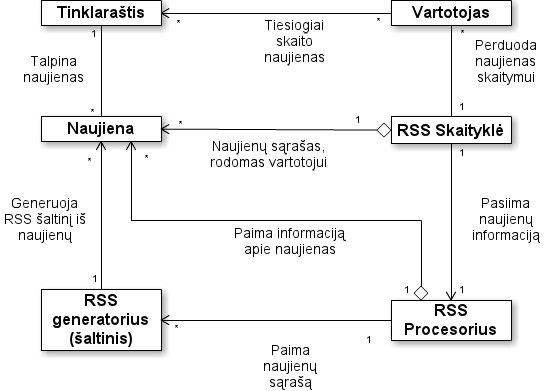
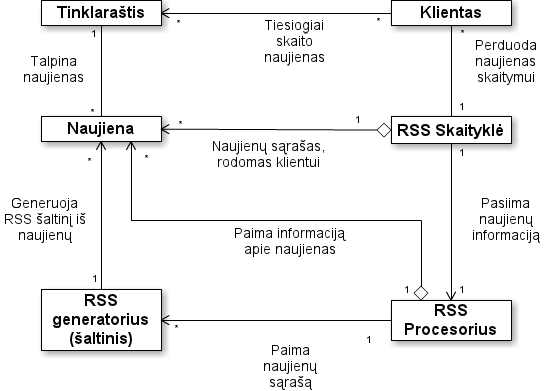
Vartotojas->klientas, sistemos teikiamos naudos diagrama, kiti smulkūs pataisymai

Changed region(s): [[0.75, 0.0, 0.9062, 0.0614], [0.375, 0.399, 0.5938, 0.4297]]

diff --git a/projektas/2.2_vidine_analize.md b/projektas/2.2_vidine_analize.md
@@ -1,6 +1,6 @@
 # Vidinė verslo proceso analizė
 
-Nagrinėjame internetinių įrašų ir naujienų skaitymo būdus. Pagrindiniai iš jų yra tiesioginis skaitymas įrašo šaltinyje ir skaitymas naudojant RSS agregatorių. Atlikę išorinę dalykinės srities analizę, nustatėme, kad naudojimasis ir vienu, ir kitu būdu yra problematiški. Didžiausios problemos yra susijusios su per dideliu pateikiamos informacijos kiekiu bei aktualumu vartotojui.
+Nagrinėjame internetinių įrašų ir naujienų skaitymo būdus. Pagrindiniai iš jų yra tiesioginis skaitymas įrašo šaltinyje ir skaitymas naudojant RSS agregatorių. Atlikę išorinę dalykinės srities analizę, nustatėme, kad naudojimasis ir vienu, ir kitu būdu yra problematiški. Didžiausios problemos yra susijusios su per dideliu pateikiamos informacijos kiekiu bei aktualumu klientui.
 
 ## Dalykinės srities statinė struktūra
 
@@ -12,15 +12,15 @@ Nagrinėjame internetinių įrašų ir naujienų skaitymo būdus. Pagrindiniai i
 
 \FloatBarrier
 
-**Vartotojas:** Klientas, sąveikaujantis su sistema ir tinklaraščiais, juose skaitantis naujienas.
+**Klientas:** Klientas, sąveikaujantis su sistema ir tinklaraščiais, juose skaitantis naujienas.
 
 **Naujiena:** RSS šaltinyje ar tinklaraštyje publikuojamas tekstinis įrašas.
 
 **RSS Generatorius (šaltinis):** Modulis, generuojantis RSS šaltinį iš naujienų šaltinyje esančių naujienų.
 
-**RSS Skaityklė:** RSS agregatoriaus dalis, su kuria sąveikauja vartotojas. Vartotojui parodo RSS Procesoriaus agreguotas naujienas bei leidžia valdyti RSS Procesoriaus naudojamus RSS šaltinius.
+**RSS Skaityklė:** RSS agregatoriaus dalis, su kuria sąveikauja klientas. Klientui parodo RSS Procesoriaus agreguotas naujienas bei leidžia valdyti RSS Procesoriaus naudojamus RSS šaltinius.
 
-**RSS Procesorius:** RSS Skaityklės dalis, su kuria vartotojas tiesiogiai nesąveikauja. Nuskaito naujienų sąrašus iš kiekvieno RSS šaltinio bei agreguoja naujienų informaciją.
+**RSS Procesorius:** RSS Skaityklės dalis, su kuria klientas tiesiogiai nesąveikauja. Nuskaito naujienų sąrašus iš kiekvieno RSS šaltinio bei agreguoja naujienų informaciją.
 
 **Tinklaraštis:** Internetinis tinklalapis talpinantis konkretaus autoriaus ar autorių grupės straipsnius tam tikromis temomis.
 
@@ -58,7 +58,7 @@ Nagrinėjame internetinių įrašų ir naujienų skaitymo būdus. Pagrindiniai i
     \begin{tabular}{|p{3cm}|p{4cm}|p{4cm}|p{4cm}|}
         \hline
         \textbf{Pirminis agentas} & \textbf{Prieš sąlyga} & \textbf{Po sąlyga} & \textbf{Pasikartojimo dažnis} \\ \hline
-        Vartotojas. & Vartotojas žino tinklaraščio adresą. & Vartotojas perskaitė įrašus tinklaraštyje. & Vidutiniškai 3 kartus per dieną. \\
+        Klientas. & Klientas žino tinklaraščio adresą. & Klientas perskaitė įrašus tinklaraštyje. & Vidutiniškai 3 kartus per dieną. \\
         \hline
     \end{tabular}
 \end{table}
@@ -79,7 +79,7 @@ Nagrinėjame internetinių įrašų ir naujienų skaitymo būdus. Pagrindiniai i
     \begin{tabular}{|p{3cm}|p{4cm}|p{4cm}|p{4cm}|}
         \hline
         \textbf{Pirminis agentas} & \textbf{Prieš sąlyga} & \textbf{Po sąlyga} & \textbf{Pasikartojimo dažnis} \\ \hline
-        Vartotojas. & Vartotojas atsidaręs norimos komentuoti naujienos puslapį. & Vartotojo komentaras išsaugotas tinklaraštyje. & Vidutiniškai 1 kartą per 2 metus. \\
+        Klientas. & Klientas atsidaręs norimos komentuoti naujienos puslapį. & Kliento komentaras išsaugotas tinklaraštyje. & Vidutiniškai 1 kartą per 2 metus. \\
         \hline
     \end{tabular}
 \end{table}
@@ -100,7 +100,7 @@ Nagrinėjame internetinių įrašų ir naujienų skaitymo būdus. Pagrindiniai i
     \begin{tabular}{|p{3cm}|p{4cm}|p{4cm}|p{4cm}|}
         \hline
         \textbf{Pirminis agentas} & \textbf{Prieš sąlyga} & \textbf{Po sąlyga} & \textbf{Pasikartojimo dažnis} \\ \hline
-        Vartotojas. & Vartotojas atsidaręs tinklaraštį interneto naršyklėje. & Vartotojas surado norimą įrašą. & Vidutiniškai 2 kartus per mėnesį. \\
+        Klientas. & Klientas atsidaręs tinklaraštį interneto naršyklėje. & Klientas surado norimą įrašą. & Vidutiniškai 2 kartus per mėnesį. \\
         \hline
     \end{tabular}
 \end{table}
@@ -121,7 +121,7 @@ Nagrinėjame internetinių įrašų ir naujienų skaitymo būdus. Pagrindiniai i
     \begin{tabular}{|p{3cm}|p{4cm}|p{4cm}|p{4cm}|}
         \hline
         \textbf{Pirminis agentas} & \textbf{Prieš sąlyga} & \textbf{Po sąlyga} & \textbf{Pasikartojimo dažnis} \\ \hline
-        Vartotojas. & Vartotojas žino RSS šaltinio adresą. & RSS šaltinis pridėtas į vartotojo skaitomų RSS šaltinių sąrašą. & Vidutiniškai 1 kartą per mėnesį. \\
+        Klientas. & Klientas žino RSS šaltinio adresą. & RSS šaltinis pridėtas į kiento skaitomų RSS šaltinių sąrašą. & Vidutiniškai 1 kartą per mėnesį. \\
         \hline
     \end{tabular}
 \end{table}
@@ -142,7 +142,7 @@ Nagrinėjame internetinių įrašų ir naujienų skaitymo būdus. Pagrindiniai i
     \begin{tabular}{|p{3cm}|p{4cm}|p{4cm}|p{4cm}|}
         \hline
         \textbf{Pirminis agentas} & \textbf{Prieš sąlyga} & \textbf{Po sąlyga} & \textbf{Pasikartojimo dažnis} \\ \hline
-        Vartotojas. & Norimas pašalinti RSS šaltinis yra vartotojo skaitomų šaltinių sąraše. & Šaltinis yra pašalintas iš vartotojo skaitomų RSS šaltinių sąrašo. & Vidutiniškai 1 kartą per mėnesį. \\
+        Klientas. & Norimas pašalinti RSS šaltinis yra kliento skaitomų šaltinių sąraše. & Šaltinis yra pašalintas iš kliento skaitomų RSS šaltinių sąrašo. & Vidutiniškai 1 kartą per mėnesį. \\
         \hline
     \end{tabular}
 \end{table}
@@ -163,7 +163,7 @@ Nagrinėjame internetinių įrašų ir naujienų skaitymo būdus. Pagrindiniai i
     \begin{tabular}{|p{3cm}|p{4cm}|p{4cm}|p{4cm}|}
         \hline
         \textbf{Pirminis agentas} & \textbf{Prieš sąlyga} & \textbf{Po sąlyga} & \textbf{Pasikartojimo dažnis} \\ \hline
-        Vartotojas. & Vartotojo skaitomų RSS šaltinių sąraše yra bent vienas RSS šaltinis ir kategorijai norimas priskirti RSS šaltinis yra vartotojo skaitomų RSS šaltinių sąraše. & RSS šaltinis priskirtas kategorijai. & Vidutiniškai 1 kartą vienam RSS šaltiniui. \\
+        Klientas. & kliento skaitomų RSS šaltinių sąraše yra bent vienas RSS šaltinis ir kategorijai norimas priskirti RSS šaltinis yra kliento skaitomų RSS šaltinių sąraše. & RSS šaltinis priskirtas kategorijai. & Vidutiniškai 1 kartą vienam RSS šaltiniui. \\
         \hline
     \end{tabular}
 \end{table}
@@ -184,7 +184,7 @@ Nagrinėjame internetinių įrašų ir naujienų skaitymo būdus. Pagrindiniai i
     \begin{tabular}{|p{3cm}|p{4cm}|p{4cm}|p{4cm}|}
         \hline
         \textbf{Pirminis agentas} & \textbf{Prieš sąlyga} & \textbf{Po sąlyga} & \textbf{Pasikartojimo dažnis} \\ \hline
-        Vartotojas. & Vartotojo skaitomų RSS šaltinių sąraše yra bent vienas šaltinis, vartotojo naujienų sraute yra bent viena naujiena. & Vartotojas, perskaitęs naujienas, perskaitytos naujienos pažymėtos perskaitytomis. & Vidutiniškai 2 kartus per dieną. \\
+        Klientas. & kliento skaitomų RSS šaltinių sąraše yra bent vienas šaltinis, kliento naujienų sraute yra bent viena naujiena. & Klientas, perskaitęs naujienas, perskaitytos naujienos pažymėtos perskaitytomis. & Vidutiniškai 2 kartus per dieną. \\
         \hline
     \end{tabular}
 \end{table}
@@ -205,7 +205,7 @@ Nagrinėjame internetinių įrašų ir naujienų skaitymo būdus. Pagrindiniai i
     \begin{tabular}{|p{3cm}|p{4cm}|p{4cm}|p{4cm}|}
         \hline
         \textbf{Pirminis agentas} & \textbf{Prieš sąlyga} & \textbf{Po sąlyga} & \textbf{Pasikartojimo dažnis} \\ \hline
-        Vartotojas. & Vartotojo naujienų sraute yra bent viena naujiena. & Vartotojas, radęs ieškomą naujieną. & Vidutiniškai 1 kartą per mėnesį. \\
+        Klientas. & kliento naujienų sraute yra bent viena naujiena. & Klientas, radęs ieškomą naujieną. & Vidutiniškai 1 kartą per mėnesį. \\
         \hline
     \end{tabular}
 \end{table}
@@ -226,7 +226,7 @@ Nagrinėjame internetinių įrašų ir naujienų skaitymo būdus. Pagrindiniai i
     \begin{tabular}{|p{3cm}|p{4cm}|p{4cm}|p{4cm}|}
         \hline
         \textbf{Pirminis agentas} & \textbf{Prieš sąlyga} & \textbf{Po sąlyga} & \textbf{Pasikartojimo dažnis} \\ \hline
-        Vartotojas. & Vartotojo naujienų sraute yra bent viena naujiena. & Pasirinkta naujiena pažymėta pamėgtąja. & Vidutiniškai 3 kartus per savaitę. \\
+        Klientas. & kliento naujienų sraute yra bent viena naujiena. & Pasirinkta naujiena pažymėta pamėgtąja. & Vidutiniškai 3 kartus per savaitę. \\
         \hline
     \end{tabular}
 \end{table}
@@ -251,7 +251,7 @@ Nagrinėjame internetinių įrašų ir naujienų skaitymo būdus. Pagrindiniai i
 
 \FloatBarrier
 
-Vartotojui, prieš naudojantis RSS šaltiniu, reikia jį pridėti į RSS agregatoriaus prenumeruojamų šaltinių sąrašą. Pridėjus šaltinis tampa aktyvus vartotojo aplinkoje. Kas nustatytą laiko tarpą šaltinis yra patikrinamas, ar jame nėra naujų įrašų ir jeigu jų yra - juos atvaizduoja vartotojui kaip naujus, neperskaitytus.
+Klientui, prieš naudojantis RSS šaltiniu, reikia jį pridėti į RSS agregatoriaus prenumeruojamų šaltinių sąrašą. Pridėjus šaltinis tampa aktyvus kliento aplinkoje. Kas nustatytą laiko tarpą šaltinis yra patikrinamas, ar jame nėra naujų įrašų ir jeigu jų yra - juos atvaizduoja klientui kaip naujus, neperskaitytus.
 
 \FloatBarrier
 
@@ -263,14 +263,14 @@ Vartotojui, prieš naudojantis RSS šaltiniu, reikia jį pridėti į RSS agregat
 
 \FloatBarrier
 
-RSS agregatorius pastoviais intervalais tikrina ar yra naujų įrašų vartotojo prenumeruojamame šaltinyje. Jeigu jų yra - atvaizduoja juos vartotojui kaip neperskaitytus. Vartotojui perskaičius naujieną, ji pakeičia būseną į perskaitytą ir taip jis gali atskirti, kurie įrašai iš RSS agregatoriaus įkeltų yra nauji, o kurie perskaityti. Aktualius, įdomius, patinkančius įrašus vartotojas gali pažymėti pamėgtais, taip palengvindamas to įrašo suradimą ateityje. Įrašas gali būti ištrintas iš visų įrašų sąrašo neperskaičius jo, perskaičius ar pažymėjus pamėgtu.
+RSS agregatorius pastoviais intervalais tikrina ar yra naujų įrašų kliento prenumeruojamame šaltinyje. Jeigu jų yra - atvaizduoja juos klientui kaip neperskaitytus. Klientui perskaičius naujieną, ji pakeičia būseną į perskaitytą ir taip jis gali atskirti, kurie įrašai iš RSS agregatoriaus įkeltų yra nauji, o kurie perskaityti. Aktualius, įdomius, patinkančius įrašus klientas gali pažymėti pamėgtais, taip palengvindamas to įrašo suradimą ateityje. Įrašas gali būti ištrintas iš visų įrašų sąrašo neperskaičius jo, perskaičius ar pažymėjus pamėgtu.
 
 \FloatBarrier
 
 ## Stiprybės
 
 - Sistemos gali aptarnauti daug klientų vienu metu.
-- Vartotojų aptarnavimas yra visiškai automatizuotas.
+- Klientų aptarnavimas yra visiškai automatizuotas.
 - RSS agregatorius gali dirbti su dideliais šaltinių kiekiais.
 - Tinklaraštis suteikia galimybę sužinoti skaitytojų nuomones apie straipsnį.
 
@@ -278,5 +278,5 @@ RSS agregatorius pastoviais intervalais tikrina ar yra naujų įrašų vartotojo
 
 - RSS Agregatoriaus rodomas turinys priklauso nuo išorinių RSS generatorių, kurių ši sistema negali kontroliuoti.
 - RSS Agregatorius negali garantuoti, kad naujienų informacija bus paimama iš RSS generatoriaus, jei jo sugeneruojamas kodas nėra teisingas ar neatitinka Atom standarto.
-- Prieš skaitant įrašus tinklaraštyje vartotojas nežino, ar jame yra naujų įrašų, ar ne
-- Vartotojas tinklaraštyje privalo peržvelgti visus įrašus, norėdamas surasti jam aktualų, naują straipsnį.
+- Prieš skaitant įrašus tinklaraštyje klientas nežino, ar jame yra naujų įrašų, ar ne
+- Klientas tinklaraštyje privalo peržvelgti visus įrašus, norėdamas surasti jam aktualų, naują straipsnį.

diff --git a/projektas/2.1_isorine_analize.md b/projektas/2.1_isorine_analize.md
@@ -51,7 +51,7 @@
         \begin{tabular}[t]{p{3cm}}
             \textbullet \raggedright Vidutinis klientas per dieną vidutiniškai gauna daugiau nei 50 naujienų. \par
             \textbullet \raggedright Vidutiniškai neaktyvių turinio šaltinių yra 25\%. \par
-            \textbullet \raggedright Grįžtančių ir visų vartotojų skaičiaus santykis yra 20\%. \par
+            \textbullet \raggedright Grįžtančių ir visų klientų skaičiaus santykis yra 20\%. \par
             \textbullet \raggedright Žodžių skaičiaus naujienoje ir ją perskaičiusių skaitytojų skaičiaus santykis yra 25\%. \par
             \textbullet \raggedright Vidutiniškai tinklaraščiai pasiekia 30\% tikslinės auditorijos. \par
         \end{tabular} \\
@@ -86,12 +86,12 @@
             \textbullet \raggedright Tvarkingai vaizduojamos naujienos. \par
         \end{tabular} &
         \begin{tabular}[t]{p{3cm}}
-            \textbullet \raggedright Aktyvių ir viso registruotų vartotojų skaičiaus santykis bent 60\%. \par
+            \textbullet \raggedright Aktyvių ir viso registruotų klientų skaičiaus santykis bent 60\%. \par
             \textbullet \raggedright Sistema būtų pasiekiama ne mažiau nei 95\% laiko. \par
             \textbullet \raggedright Nėra deformuojamas naujienos tekstas. \par
         \end{tabular} &
         \begin{tabular}[t]{p{3cm}}
-            \textbullet \raggedright Aktyvių vartotojų ir registruotų vartotojų skaičiaus santykis yra 80\%. \par
+            \textbullet \raggedright Aktyvių klientų ir registruotų klientų skaičiaus santykis yra 80\%. \par
             \textbullet \raggedright Sistema pasiekiama mažiau nei 99.7\% laiko.  \par
             \textbullet \raggedright Naujienos vaizduojamos tvarkingai.  \par
         \end{tabular} \\ \shrinkheight{-5cm}
@@ -132,9 +132,9 @@
 
 ## Problemos
 - Klientas gauna didesnį nei optimalų naujienų skaičių, todėl padidėja naujienų perskaitymui reikiamo laiko kiekis, kurio ne visi klientai nori skirti.
-- Daug neaktyvių ar mažai aktyvių turinio šaltinių, todėl vartotojas be reikalo turi juos tikrinti, skaityti seną turinį.
+- Daug neaktyvių ar mažai aktyvių turinio šaltinių, todėl klientas be reikalo turi juos tikrinti, skaityti seną turinį.
 - Ne visos naujienos suteikia skaitytojams naudos.
-- Perskaitęs vieną tinklaraščio naujieną, vartotojas nesusidomi kitomis to paties tinklaraščio naujienomis.
+- Perskaitęs vieną tinklaraščio naujieną, klientas nesusidomi kitomis to paties tinklaraščio naujienomis.
 
 ## Grėsmės
 
@@ -147,8 +147,8 @@
 
 ## Galimybės
 
-- Vartotojui pateikiamų naujienų ribojimas pasitelkiant mechanizmus, sukurtus arba automatiškai, arba padedant vartotojui.
-- Siekiant sumažinti kaštus, galima siūlyti vartotojams atsisakyti mažai aktyvių ar nenaudingų turinio šaltinių sekimo.
+- Klientui pateikiamų naujienų ribojimas pasitelkiant mechanizmus, sukurtus arba automatiškai, arba padedant klientui.
+- Siekiant sumažinti kaštus, galima siūlyti klientams atsisakyti mažai aktyvių ar nenaudingų turinio šaltinių sekimo.
 - Gerinti naujienų kokybę, atsižvelgiant į tikslinės auditorijos problemas, atliekant platesnį temos, apie kurią rašoma, tyrimą.
-- Padėti naujiems vartotojams greičiau susirasti įdomios informacijos pasiūlant prenumeruoti populiarius turinio šaltinius.
+- Padėti naujiems klientams greičiau susirasti įdomios informacijos pasiūlant prenumeruoti populiarius turinio šaltinius.
 

diff --git a/projektas/2.4_verslo_proceso_tobulinimo_strategija.md b/projektas/2.4_verslo_proceso_tobulinimo_strategija.md
@@ -2,32 +2,32 @@
 
 Atlikus šiuo metu rinkoje esančių RSS agregatorių analizę priėjome prie išvadų, kad reikia:
 
-1. Mažinti kasdien gaunamo neaktualaus turinio kiekį vartotojui.
-1. Taupyti pagrindinio serverio resursus pašalinant (ar siūlant vartotojui pašalinti) retai atnaujinamus RSS šaltinius.
-1. Naujiems ir nieko dar neprenumeruojantiems pasiūlyti prenumeruoti populiarių, kitų vartotojų prenumeruojamų RSS šaltinių.
-1. Padėti naujiems vartojams greičiau pažinti kuriamos sistemos funkcijas ir teikiamas naudas.
+1. Mažinti kasdien gaunamo neaktualaus turinio kiekį klientui.
+1. Taupyti pagrindinio serverio resursus pašalinant (ar siūlant klientui pašalinti) retai atnaujinamus RSS šaltinius.
+1. Naujiems ir nieko dar neprenumeruojantiems pasiūlyti prenumeruoti populiarių, kitų klientų prenumeruojamų RSS šaltinių.
+1. Padėti naujiems klientams greičiau pažinti kuriamos sistemos funkcijas ir teikiamas naudas.
 
 ## Strateginiai ir operaciniai tikslai verslo tobulinimo strategijai įgyvendinti
 
 \begin{enumerate}
-    \item Mažinti kasdien gaunamo neaktualaus turinio kiekį vartotojui.
+    \item Mažinti kasdien gaunamo neaktualaus turinio kiekį klientui.
         \begin{enumerate}
-            \item Sukurti automatinį modulį, kuris analizuotų vartotojo skaitymo įpročius ir mėgstamiausias temas.
+            \item Sukurti automatinį modulį, kuris analizuotų kliento skaitymo įpročius ir mėgstamiausias temas.
             \item Sukurti automatinį filtrą, kuris pagal išanalizuotus skaitymo įpročius, atrinktų aktualų turinį.
         \end{enumerate}
-    \item Taupyti pagrindinio serverio resursus siūlant vartotojui pašalinti retai atnaujinamus RSS šaltinius.
+    \item Taupyti pagrindinio serverio resursus siūlant klientui pašalinti retai atnaujinamus RSS šaltinius.
         \begin{enumerate}
             \item Sukurti automatinį modulį, kuris stebėtų šaltinių aktyvumą.
-            \item Siūlyti vartotojui atsisakyti neaktyvių RSS šaltinių.
+            \item Siūlyti klientui atsisakyti neaktyvių RSS šaltinių.
         \end{enumerate}
-    \item Užsiregistravusiam naujam vartotojui pasiūlyti prenumeruoti populiarių RSS šaltinių.
+    \item Užsiregistravusiam naujam klientui pasiūlyti prenumeruoti populiarių RSS šaltinių.
         \begin{enumerate}
             \item Sudaryti populiarių RSS šaltinių sąrašą, suskirstytą pagal RSS šaltinio naujienų temas.
-            \item Užsiregistravusiam naujam vartotojui parodyti populiarių šaltinių sąrašą ir suteikti galimybę juos užsiprenumeruoti.
+            \item Užsiregistravusiam naujam klientui parodyti populiarių šaltinių sąrašą ir suteikti galimybę juos užsiprenumeruoti.
         \end{enumerate}
-    \item Padėti naujiems vartojams greičiau pažinti kuriamos sistemos funkcijas ir teikiamas naudas.
+    \item Padėti naujiems klientams greičiau pažinti kuriamos sistemos funkcijas ir teikiamas naudas.
         \begin{enumerate}
-            \item Sukurti interaktyvų sistemos vedlį, padedantį naujiems vartotojams susipažinti su sistemos naudojimu.
-			\item Viešai pateikti atsakymus į dažniausiai užduodamus vartotojų klausimus.
+            \item Sukurti interaktyvų sistemos vedlį, padedantį naujiems klientams susipažinti su sistemos naudojimu.
+			\item Viešai pateikti atsakymus į dažniausiai užduodamus klientų klausimus.
         \end{enumerate}
 \end{enumerate}

diff --git a/projektas/2.6_igyvendinamumo_ir_naudos_analize.md b/projektas/2.6_igyvendinamumo_ir_naudos_analize.md
@@ -18,7 +18,7 @@
 
 Komanda gali įgyvendinti šią sistemą, nes:
 
-- Egzistuoja į mūsų kuriamą sistemą panašios sistemos, sprendžiančios šias problemas, tačiau dėl naudojimo sudėtingumo ar ekonominių priežasčių jos nėra prieinamos paprastam vartotojui.
+- Egzistuoja į mūsų kuriamą sistemą panašios sistemos, sprendžiančios šias problemas, tačiau dėl naudojimo sudėtingumo ar ekonominių priežasčių jos nėra prieinamos paprastam klientui.
 - Komandai yra žinomi šias problemas padedantys išspręsti algoritmai.
 - Sistemą kurianti grupė daug domėjosi šia sritimi, analizavo esamas sistemas bei jų trūkumus, o grupės narių žinių pakanka šiai sistemai sukurti.
 
@@ -85,7 +85,7 @@ Sistemos eksploatavimo išlaidos: 3 950 Lt/mėn.
 
 Sistemos atsiperkamumas:
 
-Pirminis vartotojų šaltinis - įvairių tipų reklama.
+Pirminis klientų šaltinis - įvairių tipų reklama.
 
 Mėnesiniui reklamos kampanijos biudžetui esant 500 Lt, o už reklamos paspaudimą mokant apie 0.50 Lt ir esant 6% reklamos parodymų ir paspaudimų santykiui (angl. CTR - Click Through Rate), per mėnesį reklamos būtų parodomos 33 tūkstančius kartų, o į sistemą būtų nusiunčiama apie 1000 galimų klientų.  
 Esant 10% tikimybei, kad lankytojas taps sistemos naudotoju, per mėnesį verslas įgytų po 100 naujų klientų.  

diff --git a/projektas/1_ivadas.md b/projektas/1_ivadas.md
@@ -17,14 +17,14 @@ Skipbug komanda:
     Automatinis aktualaus RSS turinio atrinkimas - **ARTA**
 
 * **Dalykinė sritis:**  
-    Prenumeruojamų naujienų skaitymas
+    Naujienų skaitymas
 
-    Turinys yra prenumeruojamas iš RSS šaltinių pasinaudojant RSS skaitykle.
-    Skaityklės leidžia prenumeruoti kelis RSS šaltinius vienu metu, todėl patogu
-    viską skaityti vienoje vietoje.
+    Naujienos skaitomos tiesiogiai tinklaraščiuose arba iš RSS šaltinių
+    pasinaudojant RSS skaitykle. Skaityklės leidžia prenumeruoti kelis RSS
+    šaltinius vienu metu, todėl patogu viską skaityti vienoje vietoje.
 
 * **Probleminė sritis:**  
-    Greitas aktualių naujienų Vartotojui išrinkimas ir pateikimas.
+    Greitas aktualių naujienų klientui išrinkimas ir pateikimas.
 
 * **Sistemos naudotojai:**  
     - Sistemos administratorius
@@ -32,7 +32,7 @@ Skipbug komanda:
         + Sprendžia iškilusias problemas, susijusias su technine sistemos dalimi
         + **Kompetencija:** aukštasis Informacinių Technologijų srities išsilavinimas
 
-    - Vartotojas (Sistemos lankytojas)
+    - Klientas (Sistemos lankytojas)
 
         + Domisi Sistemoje pateikiamama informacija
         + **Kompetencija:** vidurinės mokyklos informatikos kursas

diff --git a/projektas/2.0_destymas.md b/projektas/2.0_destymas.md
@@ -1,3 +1,3 @@
 # Verslo proceso aprašas
 
-Vartotojai, turintys interneto prieigą, dažniausiai skaito naujienas internete. Greitam naujienų pasiekimui naudojama RSS skaityklė. Tinklalapiai paskelbia savo naujienų šaltinius (angl. news feed), kurie sukuriami su RSS generatoriumi. Vartotojas RSS agregatoriuje, pateikęs norimo naujienų šaltinio nuorodą, skaito naujausias aktualijas, neaplankydamas pačio tinklalapio. Dažnai vartotojai sugrupuoja ar kitaip apdoroja gautas naujienas savo patogumui.
+Klientai, turintys interneto prieigą, dažniausiai skaito naujienas internete. Greitam naujienų pasiekimui naudojama RSS skaityklė. Tinklalapiai paskelbia savo naujienų šaltinius (angl. news feed), kurie sukuriami su RSS generatoriumi. Klientas RSS agregatoriuje, pateikęs norimo naujienų šaltinio nuorodą, skaito naujausias aktualijas, neaplankydamas pačio tinklalapio. Dažnai klientai sugrupuoja ar kitaip apdoroja gautas naujienas savo patogumui.

diff --git a/projektas/2.5_sistemos_naudojimo_scenarijus.md b/projektas/2.5_sistemos_naudojimo_scenarijus.md
@@ -4,6 +4,14 @@
 
 ## Sistemos teikiama nauda
 
+\begin{figure}[ht]
+    \centering
+    \includegraphics[width=0.8\textwidth]{projektas/img/sist_teikiama_naud.png}
+    \caption{Sistemos teikiama nauda}
+\end{figure}
+
+\FloatBarrier
+
 ## Esama būklė
 
 ## Priemonės scenarijui įgyvendinti
